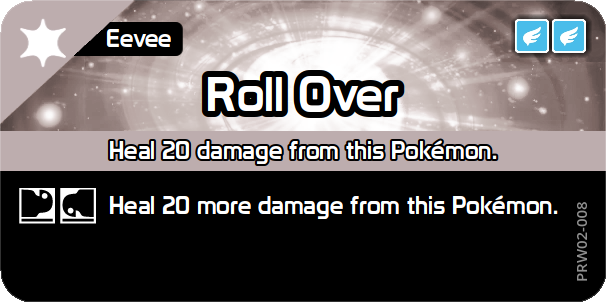
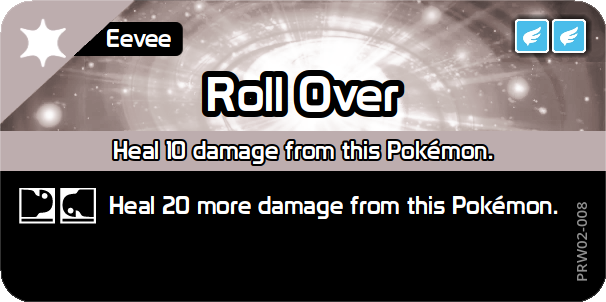
Eevee Promo fix

Changed region(s): [[0.1782, 0.447, 0.8317, 0.5662]]

diff --git a/database/text/wazacards/ST/05-001_eevee.md b/database/text/wazacards/ST/05-001_eevee.md
@@ -147,7 +147,7 @@
 | Pokémon   | Eevee                                  |
 | Energy    | {Y}{Y}                                 |
 | Damage    |                                        |
-| Effect    | Heal 20 damage from this Pokémon.      |
+| Effect    | Heal 10 damage from this Pokémon.      |
 | Standing  |                                        |
 | Handstand |                                        |
 | Back      | Heal 20 more damage from this Pokémon. |
